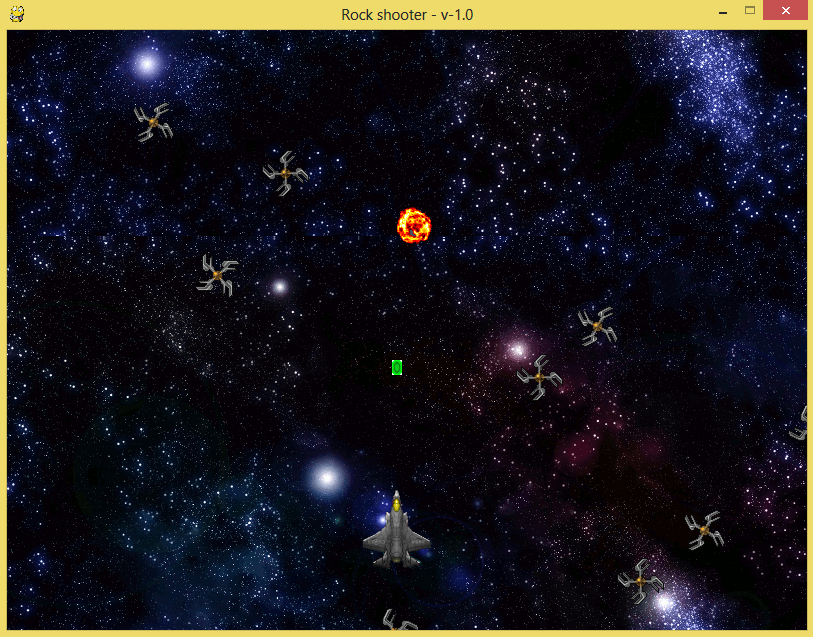
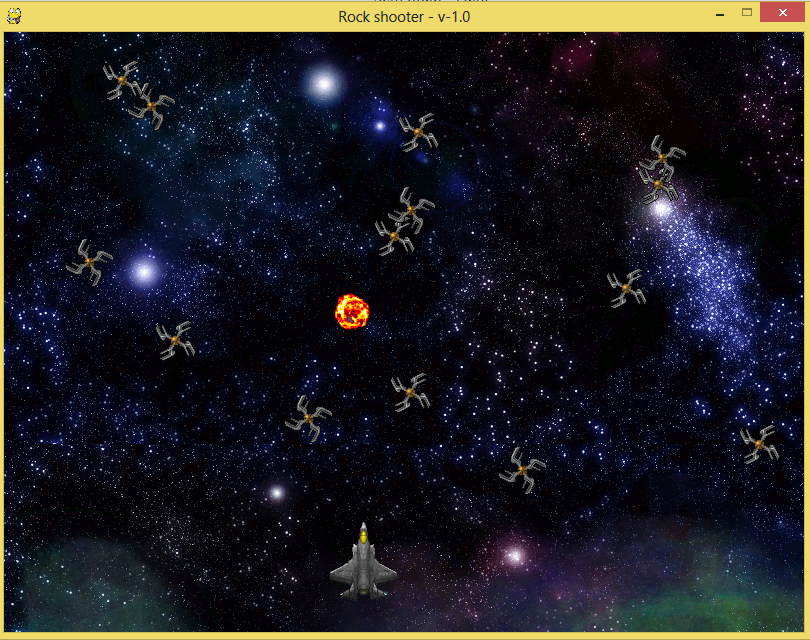
Updating README

diff --git a/rockshooter/gamerecords.py b/rockshooter/gamerecords.py
@@ -1,1 +1,1 @@
-records = {'tts': 50, 'uhe': 880, 'jef': 1110, 'fau': 130}
+records = {'yui': 90, 'uhe': 880, 'jef': 1110, 'ra': 120, 'fau': 130}

diff --git a/README.md b/README.md
@@ -6,8 +6,9 @@ It's a simple 2D shoot game used to study the concepts of 2D games (sprites, ani
 The main goal of this game is integrate step by step these and other concepts and have fun while learning them!
 
 Screenshot preview:
+<img src="game_screenshot0.png"/>
 <img src="game_screenshot1.png"/>
-
+<img src="game_screenshot2.png"/>
 
 Requirements 
 ============
